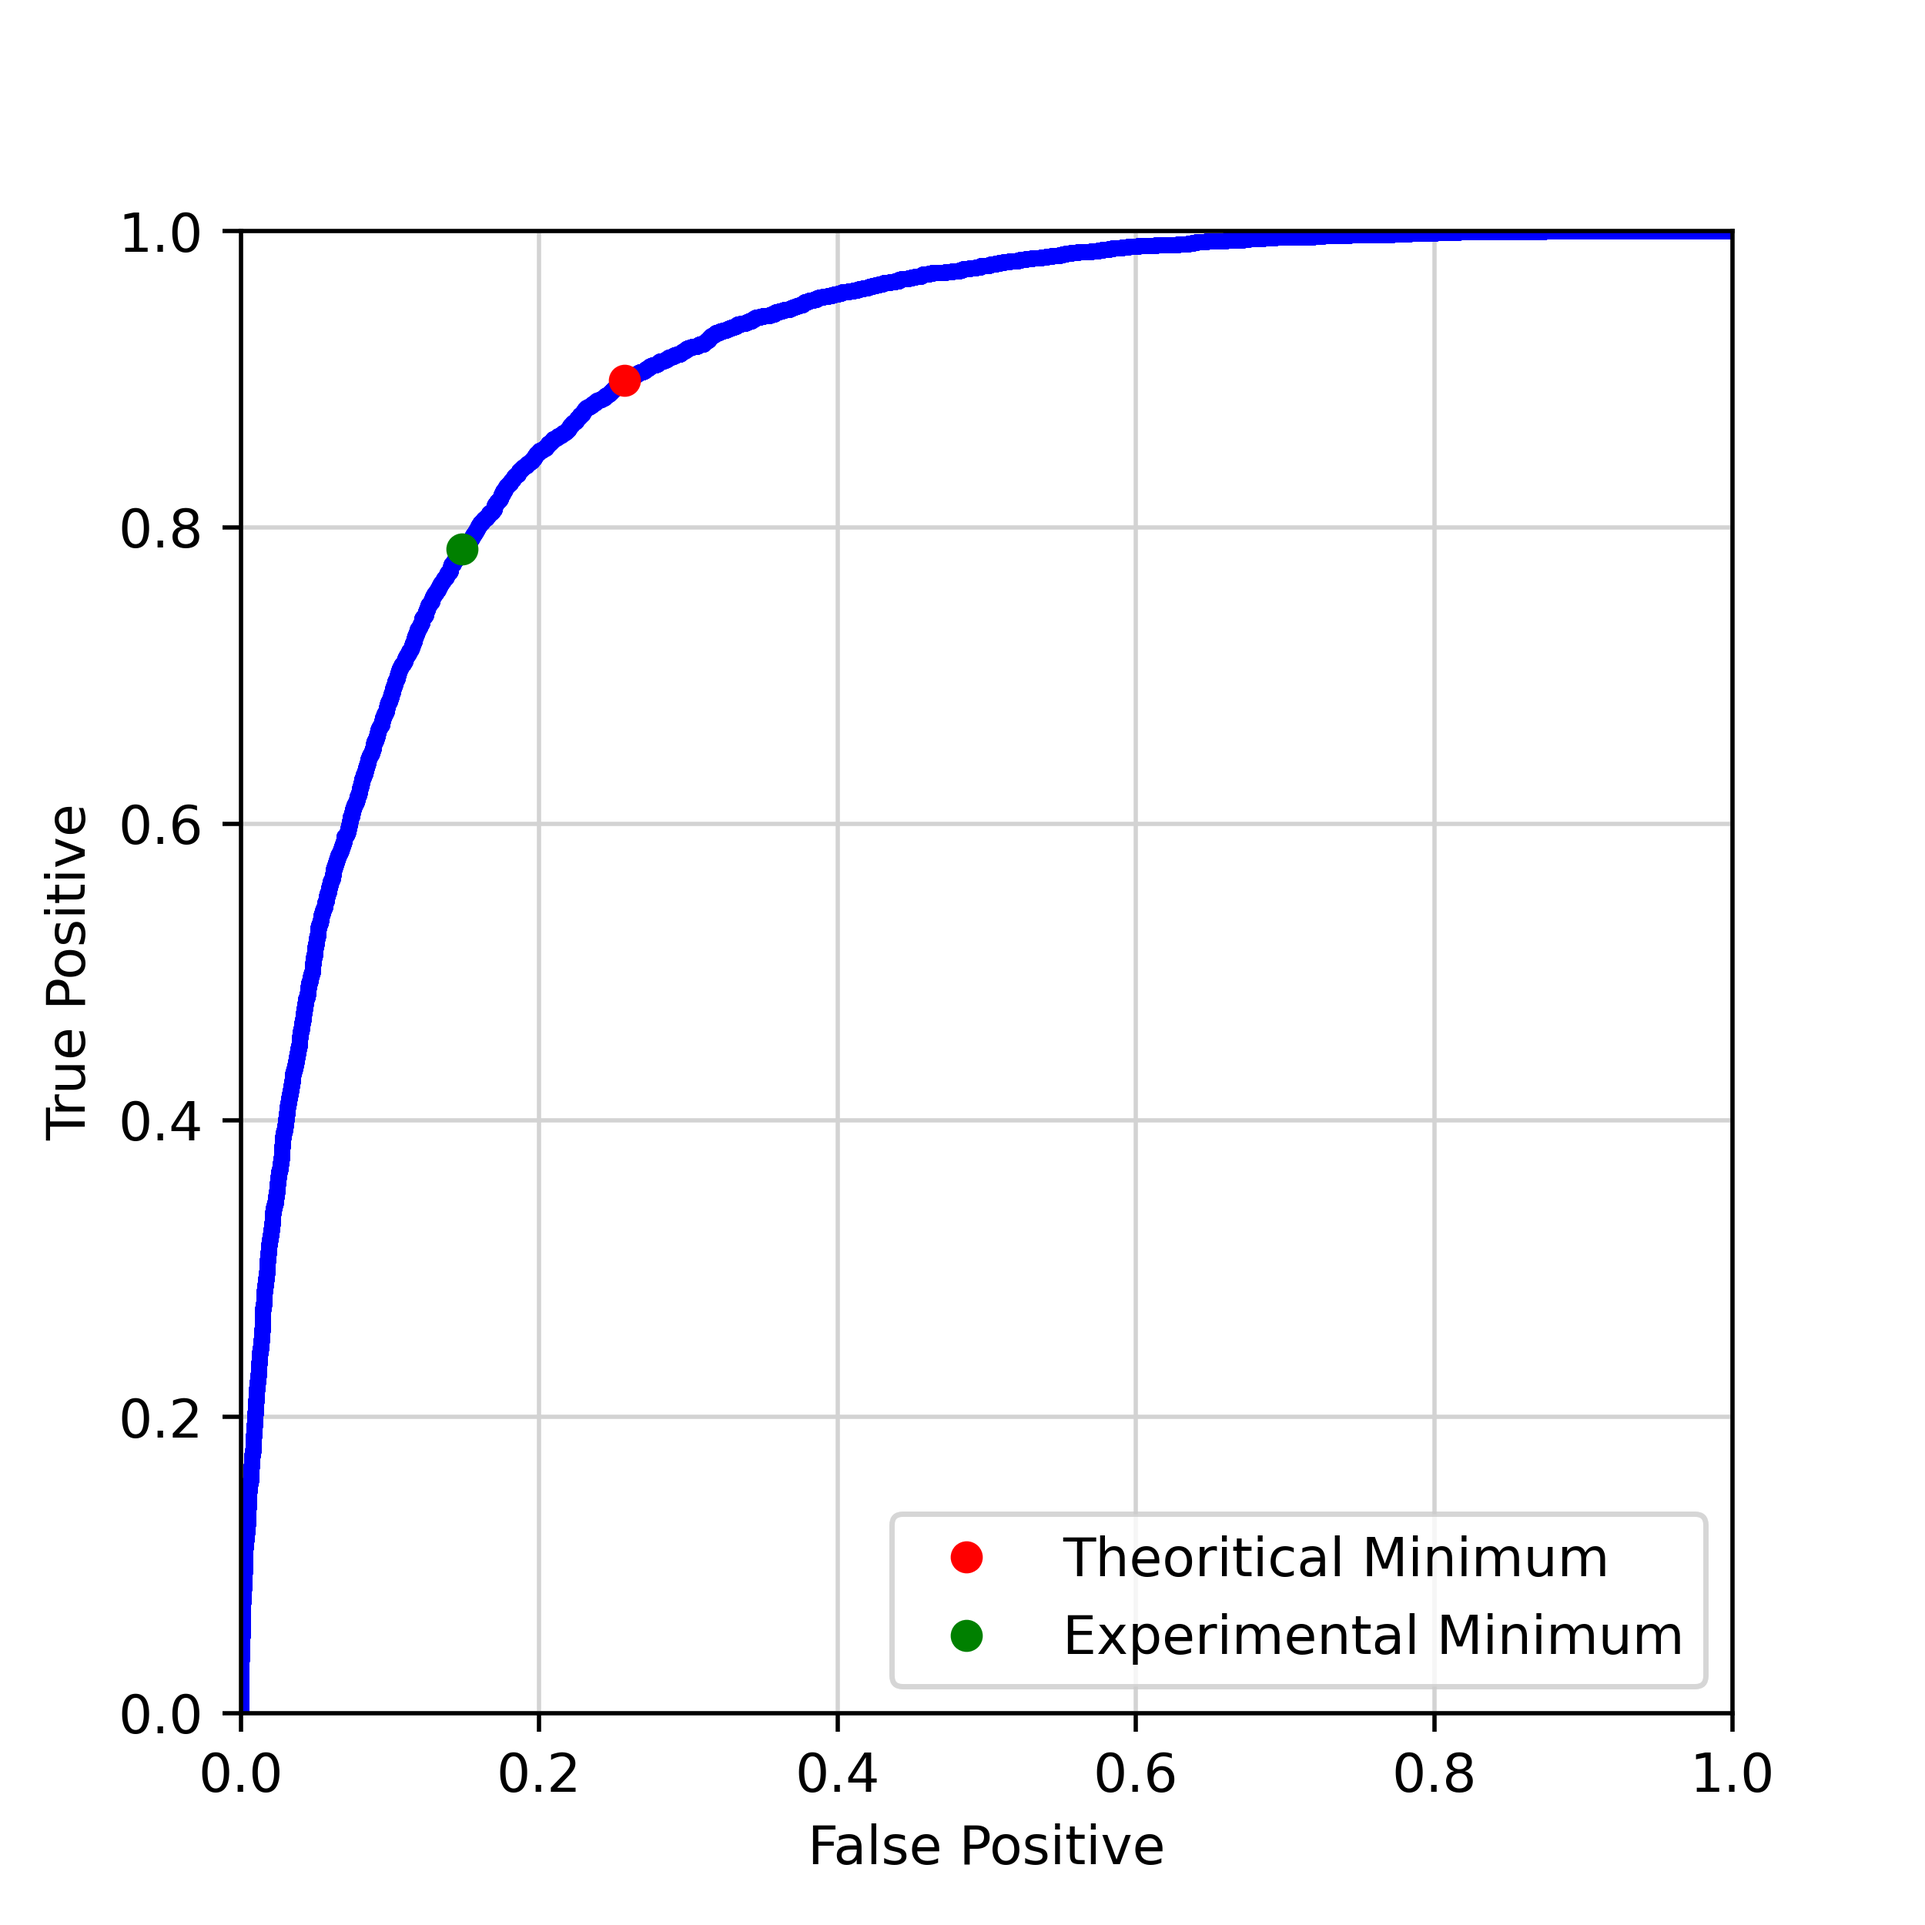
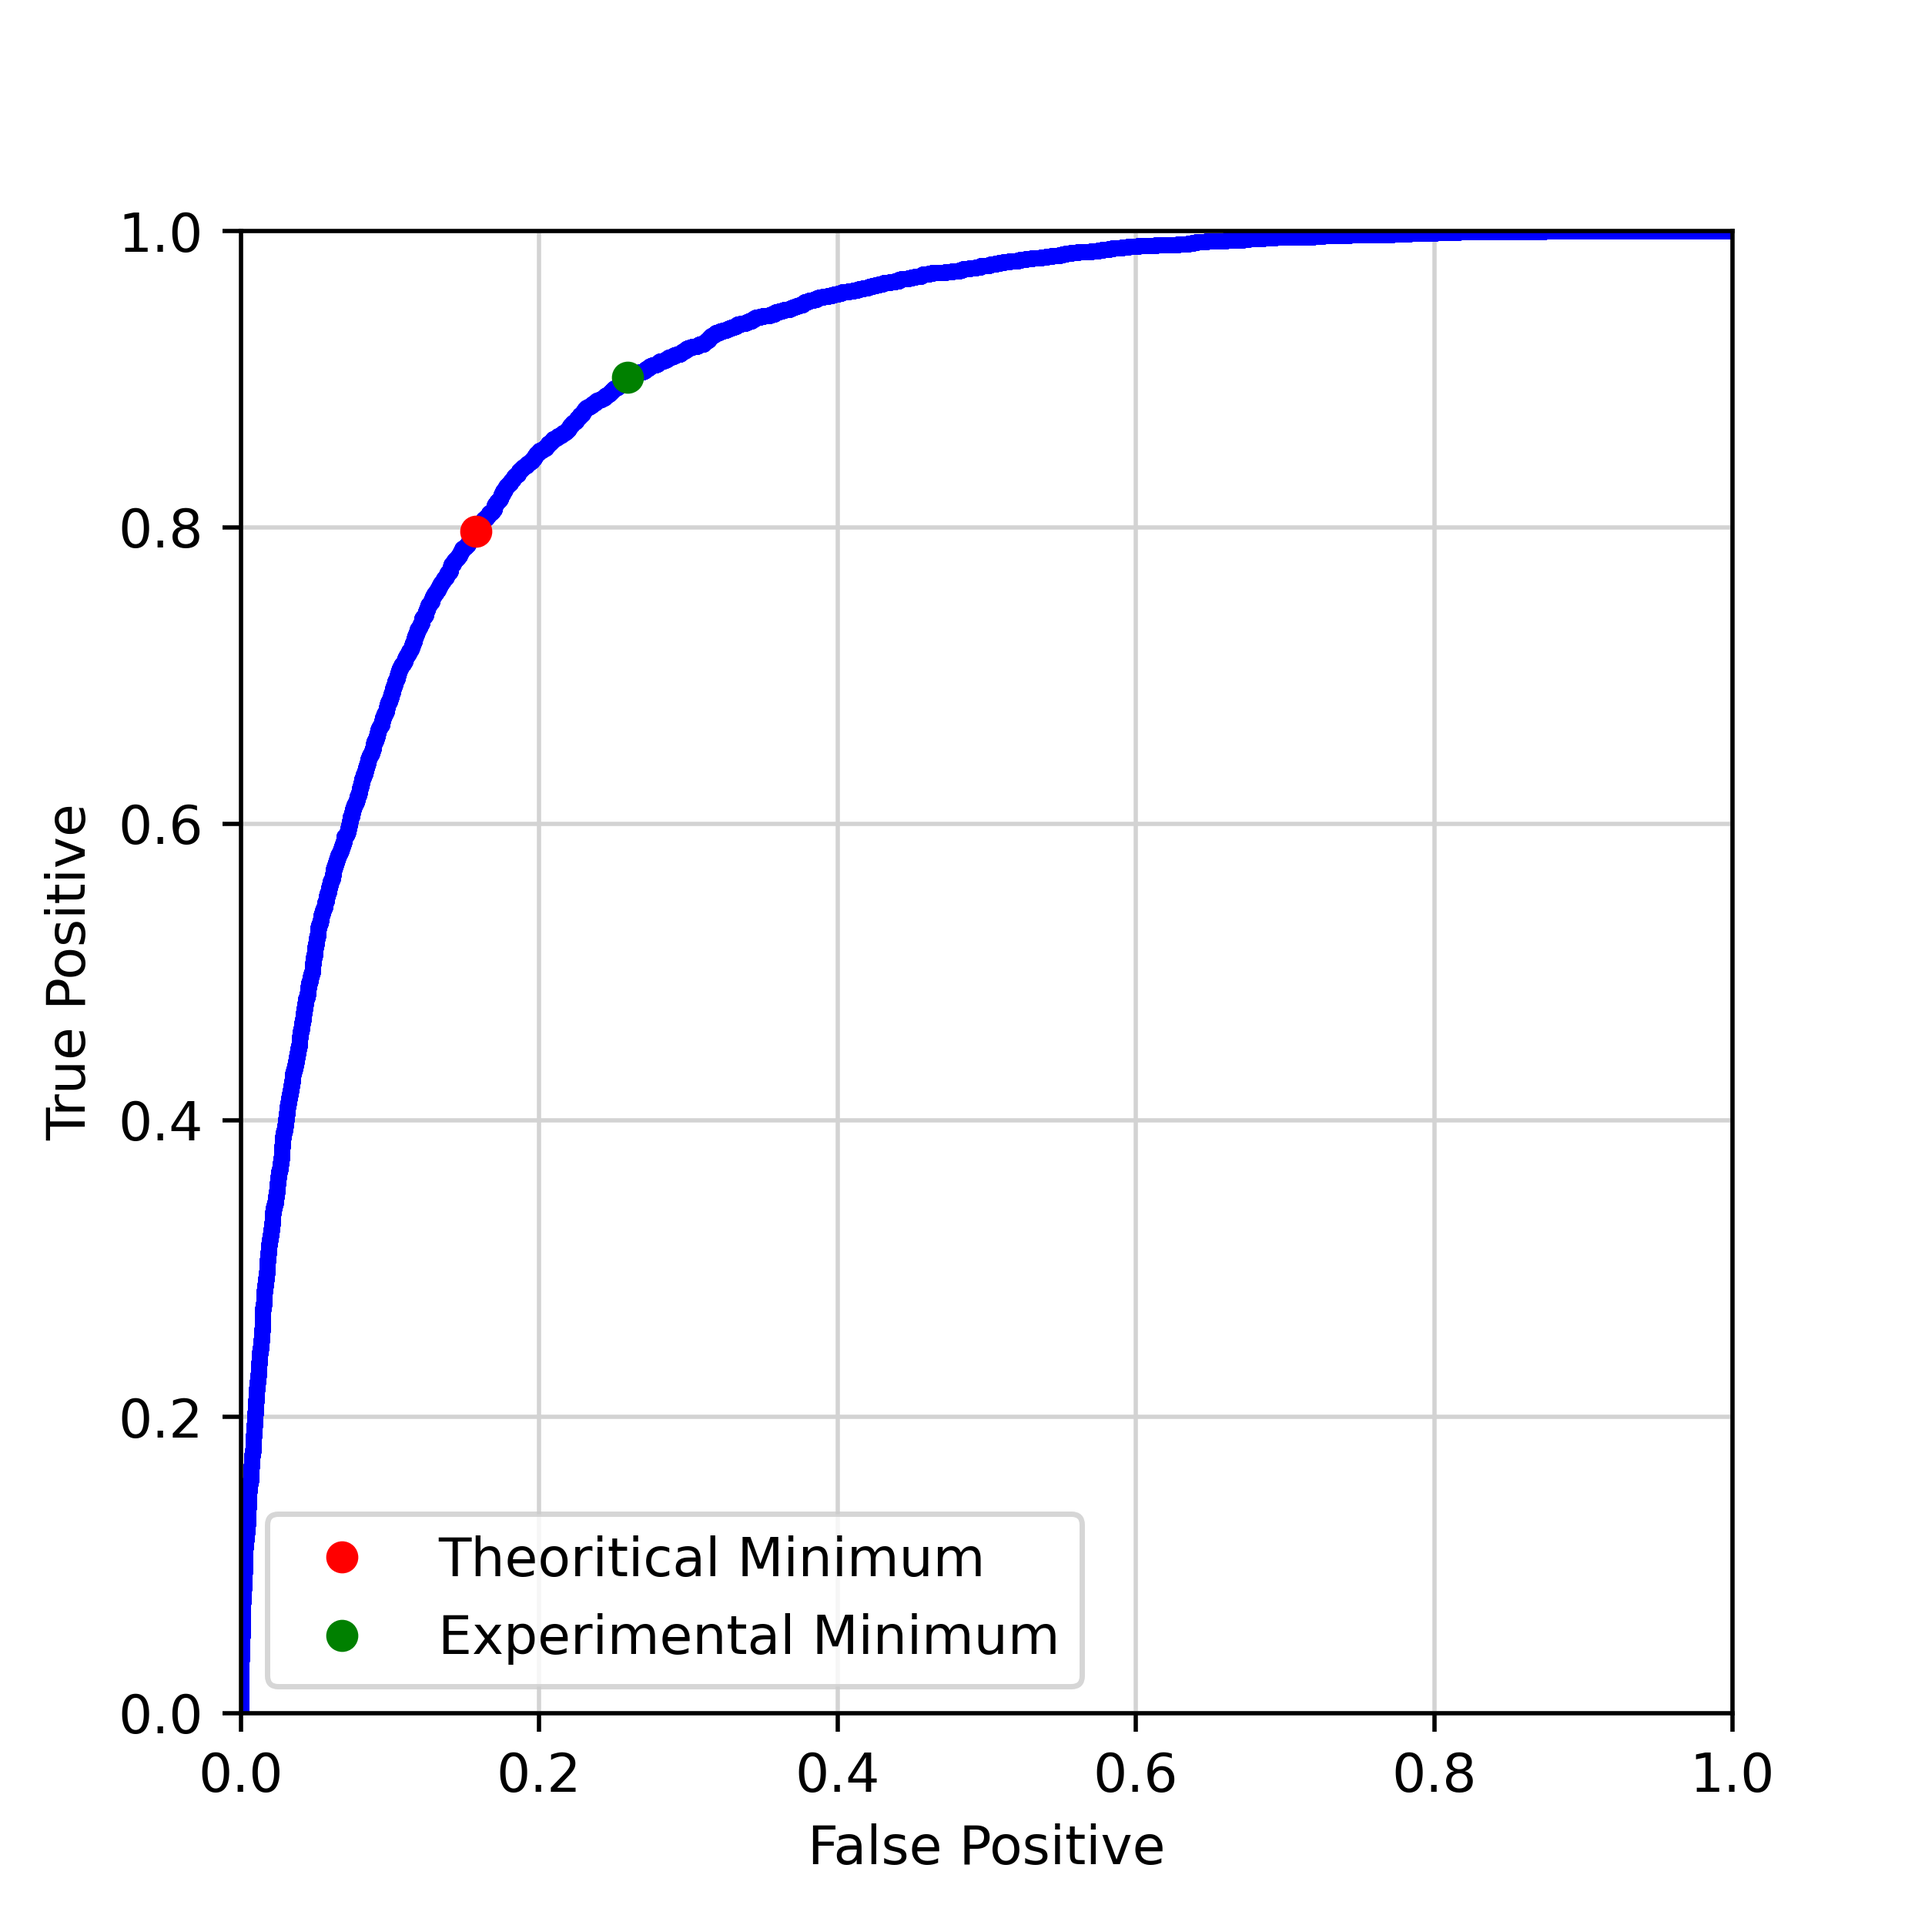
improved P Error calculation

diff --git a/HW3/LikelihoodRatio.py b/HW3/LikelihoodRatio.py
@@ -23,7 +23,7 @@ def likelihood_ratio_test(data, mu, sigma, prior, NameOfFile, weights, Flag):
         x = data.iloc[i, 0]
         y = data.iloc[i, 1]
         # Calculate the likelihood ratio
-        likelihood_ratio = ((stats.multivariate_normal.pdf([x, y], mean=mu[0], cov=sigma[0]) * w1) + (stats.multivariate_normal.pdf([x, y], mean=mu[1], cov=sigma[1]) * w2))/stats.multivariate_normal.pdf([x, y], mean=mu[2], cov=sigma[2])
+        likelihood_ratio = stats.multivariate_normal.pdf([x, y], mean=mu[2], cov=sigma[2])/((stats.multivariate_normal.pdf([x, y], mean=mu[0], cov=sigma[0]) * w1) + (stats.multivariate_normal.pdf([x, y], mean=mu[1], cov=sigma[1]) * w2))
         Discriminant.append(likelihood_ratio)
         # If the likelihood ratio is larger than the threshold value, then the point is classified as class 1
         if likelihood_ratio > thy_threshold:
@@ -43,9 +43,9 @@ def likelihood_ratio_test(data, mu, sigma, prior, NameOfFile, weights, Flag):
     # Generate the ROC Curve
     for i, rows in data.iterrows():
         discriminant = rows['Discriminant']
-        FalsePositive = len([x for x in class1 if x < discriminant])/len(class1)
-        TruePositive = len([x for x in class2 if x < discriminant])/len(class2)
-        df.loc[i] = [TruePositive, FalsePositive, discriminant, (prior[0]+prior[1])*FalsePositive+prior[2]*(1-TruePositive)]
+        FalsePositive = len([x for x in class1 if x > discriminant])/len(class1)
+        TruePositive = len([x for x in class2 if x > discriminant])/len(class2)
+        df.loc[i] = [TruePositive, FalsePositive, discriminant, (prior[2])*FalsePositive + (prior[0]+prior[1])*(1-TruePositive)]
 
     df = df.sort_values(by=['PError'])
     ExperimentalMinimum = df.iloc[0]
@@ -54,7 +54,7 @@ def likelihood_ratio_test(data, mu, sigma, prior, NameOfFile, weights, Flag):
     print('Experimental True Positive Rate: ' + Flag, ExperimentalMinimum['True Positive Rate'])
     print('Experimental False Positive Rate: ' + Flag, ExperimentalMinimum['False Positive Rate'])
 
-    TheoriticalRates = [len([x for x in class1 if x < thy_threshold])/len(class1),len([x for x in class2 if x < thy_threshold])/len(class2)]
+    TheoriticalRates = [len([x for x in class1 if x > thy_threshold])/len(class1),len([x for x in class2 if x > thy_threshold])/len(class2)]
     TheoriticalPError = (prior[0]+prior[1])*TheoriticalRates[0]+prior[2]*(1-TheoriticalRates[1])
 
     print('Theoritical Minimum PError: ' + Flag, TheoriticalPError)
